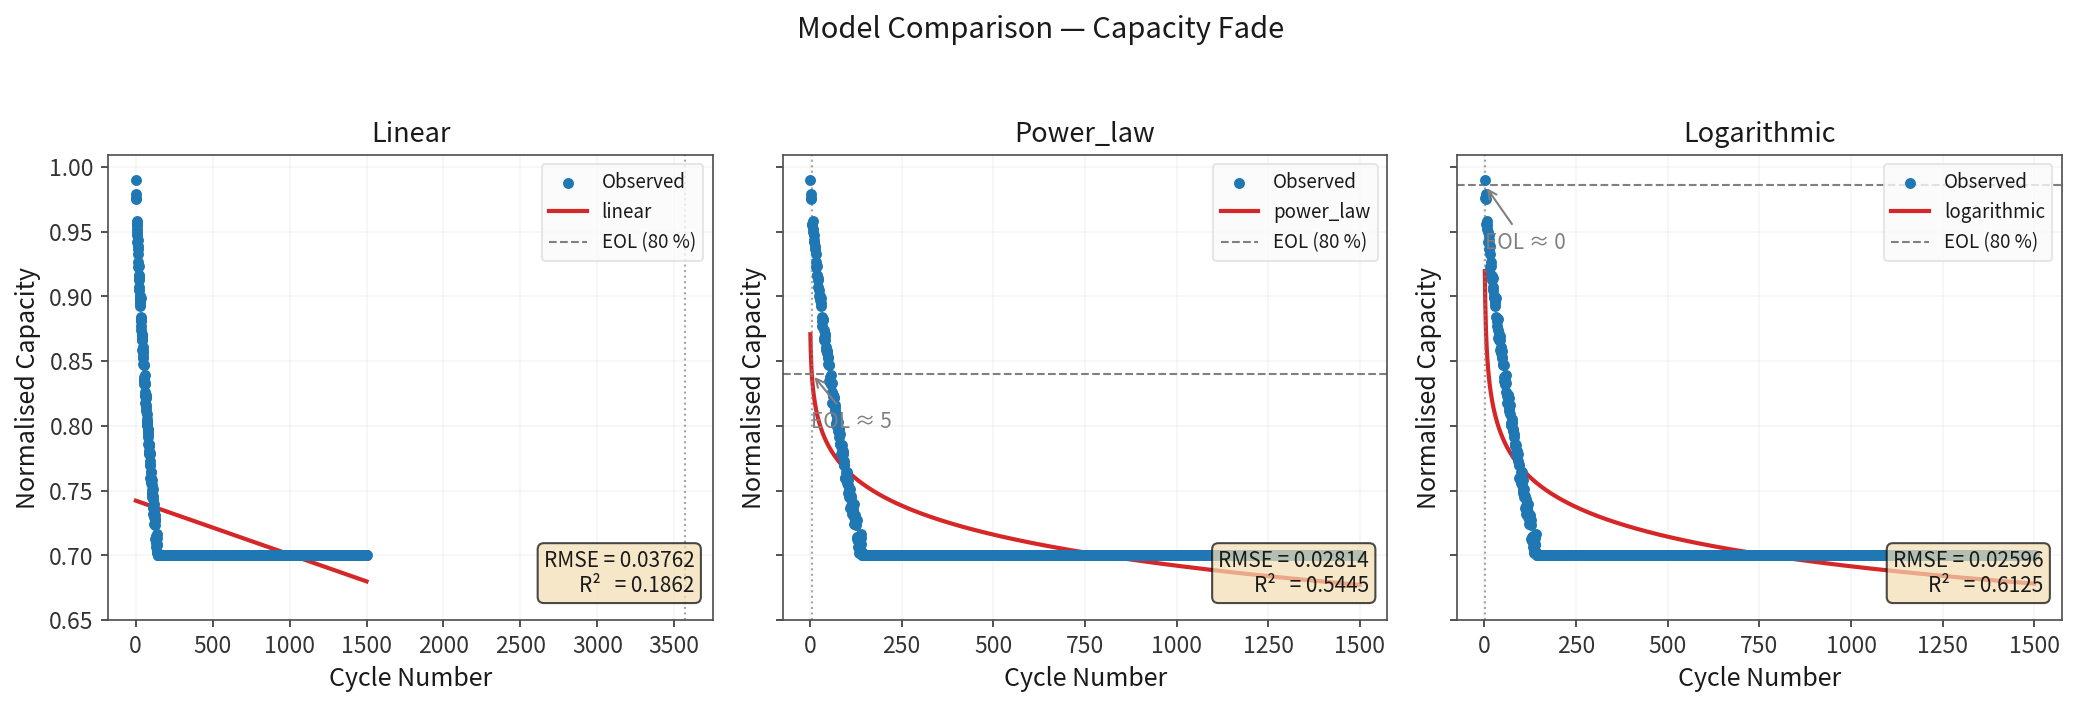
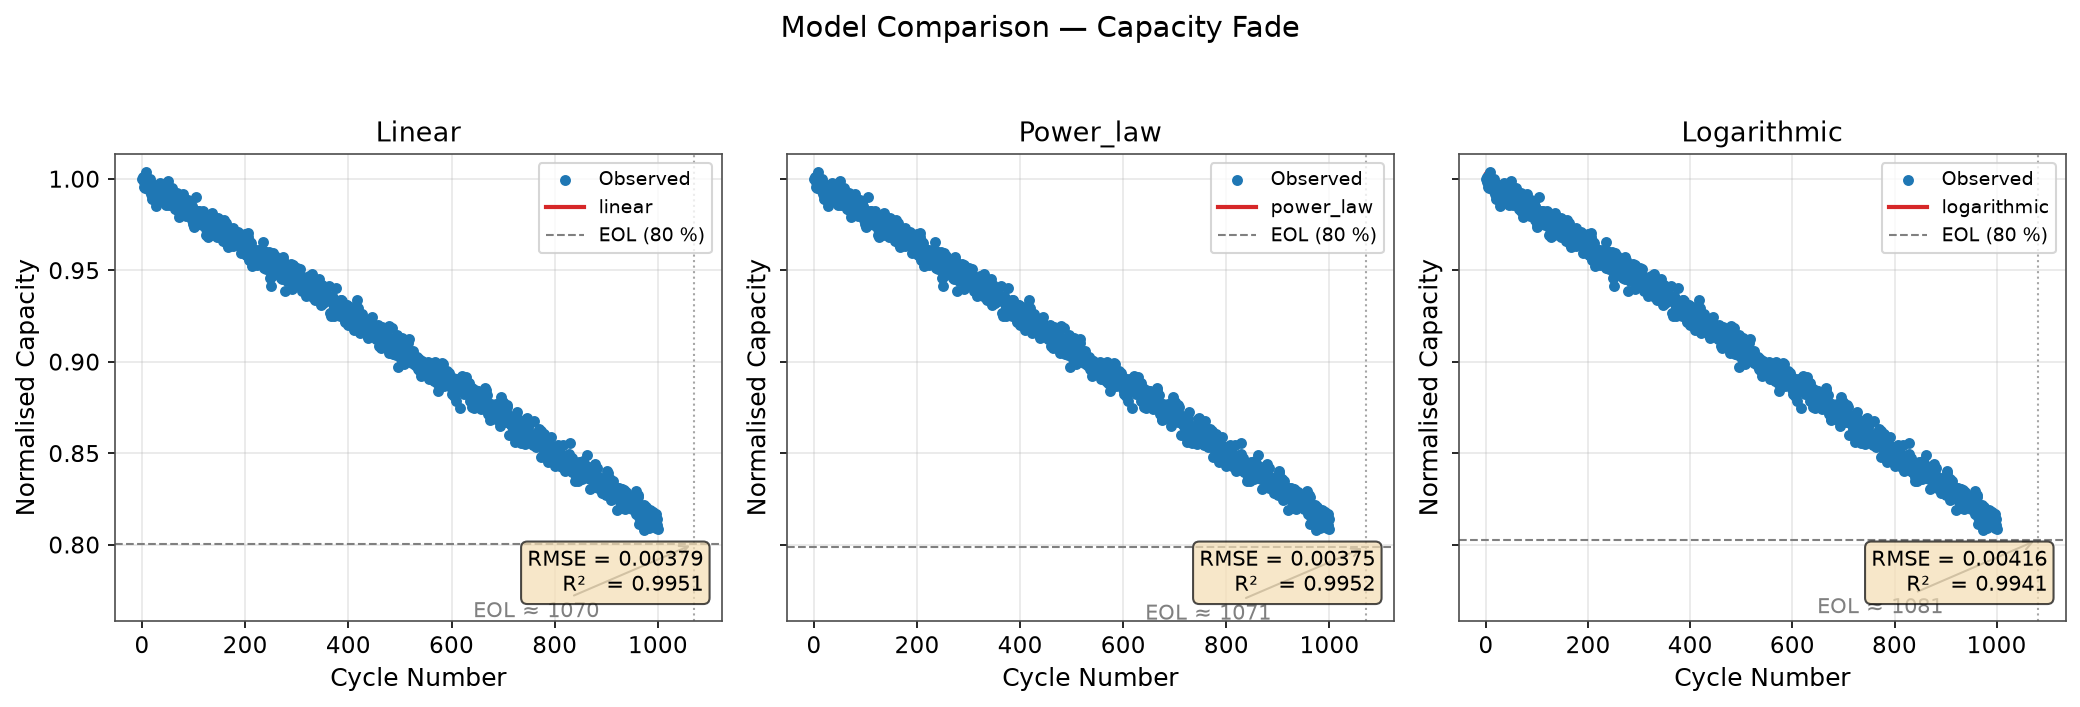
Harden data import and repair project Pages

diff --git a/bcla/datasets.py b/bcla/datasets.py
@@ -73,7 +73,7 @@ def synthetic_nmc(cycles: int = 1000,
 def load_cycle_data(csv_path: str | Path,
                     cycle_col: str = "cycle",
                     capacity_col: str = "capacity",
-                    sep: str = ",",
+                    sep: str | None = None,
                     normalize: bool = True
                     ) -> tuple[NDArray[np.float64], NDArray[np.float64]]:
     """
@@ -87,8 +87,9 @@ def load_cycle_data(csv_path: str | Path,
         Column name for cycle index.
     capacity_col : str
         Column name for normalized or raw capacity.
-    sep : str
-        CSV separator character.
+    sep : str | None
+        Separator character. If None, infer tab for `.tsv`/`.tab` files and
+        comma otherwise. The escaped value ``"\\t"`` is accepted as a tab.
     normalize : bool
         If True, divide capacities by the first capacity value.
 
@@ -107,8 +108,17 @@ def load_cycle_data(csv_path: str | Path,
     if not path.exists():
         raise FileNotFoundError(f"Could not find dataset file: {path}")
 
-    with path.open("r", newline="", encoding="utf-8") as f:
-        reader = csv.DictReader(f, delimiter=sep)
+    if sep is None:
+        delimiter = "\t" if path.suffix.lower() in {".tsv", ".tab"} else ","
+    else:
+        delimiter = "\t" if sep == r"\t" else sep
+        if len(delimiter) != 1:
+            raise ValueError(
+                "Separator must be one character or the escaped tab value '\\t'."
+            )
+
+    with path.open("r", newline="", encoding="utf-8-sig") as f:
+        reader = csv.DictReader(f, delimiter=delimiter)
         if reader.fieldnames is None:
             raise ValueError("Input file is missing a header row.")
         header = set(reader.fieldnames)
@@ -122,7 +132,7 @@ def load_cycle_data(csv_path: str | Path,
 
         cycles: list[float] = []
         capacity: list[float] = []
-        for row_i, row in enumerate(reader, start=1):
+        for row_i, row in enumerate(reader, start=2):
             try:
                 cycle = float(row[cycle_col])
                 q = float(row[capacity_col])
@@ -131,6 +141,12 @@ def load_cycle_data(csv_path: str | Path,
                     f"Could not parse row {row_i}: {cycle_col}={row.get(cycle_col)!r}, "
                     f"{capacity_col}={row.get(capacity_col)!r}"
                 ) from exc
+            if not np.isfinite(cycle) or not np.isfinite(q):
+                raise ValueError(
+                    f"Non-finite value in row {row_i}: "
+                    f"{cycle_col}={row.get(cycle_col)!r}, "
+                    f"{capacity_col}={row.get(capacity_col)!r}"
+                )
             cycles.append(cycle)
             capacity.append(q)
 

diff --git a/tests/test_datasets.py b/tests/test_datasets.py
@@ -26,7 +26,6 @@ def test_load_cycle_data_works_without_normalization(tmp_path: Path):
         csv_path,
         cycle_col="t",
         capacity_col="q",
-        sep="\t",
         normalize=False,
     )
 
@@ -41,3 +40,45 @@ def test_load_cycle_data_raises_for_missing_columns(tmp_path: Path):
     with pytest.raises(ValueError, match="Missing required columns"):
         load_cycle_data(csv_path)
 
+
+def test_load_cycle_data_reads_utf8_bom_header(tmp_path: Path):
+    csv_path = tmp_path / "excel.csv"
+    csv_path.write_bytes(
+        b"\xef\xbb\xbfcycle,capacity\n1,1.00\n2,0.98\n3,0.95\n"
+    )
+
+    cycles, capacity = load_cycle_data(csv_path)
+
+    assert np.allclose(cycles, np.array([1.0, 2.0, 3.0]))
+    assert np.allclose(capacity, np.array([1.0, 0.98, 0.95]))
+
+
+def test_load_cycle_data_accepts_escaped_tab_separator(tmp_path: Path):
+    csv_path = tmp_path / "cycles.txt"
+    csv_path.write_text("cycle\tcapacity\n1\t1.00\n2\t0.95\n")
+
+    cycles, capacity = load_cycle_data(csv_path, sep=r"\t")
+
+    assert np.allclose(cycles, np.array([1.0, 2.0]))
+    assert np.allclose(capacity, np.array([1.0, 0.95]))
+
+
+@pytest.mark.parametrize("bad_value", ["nan", "inf", "-inf"])
+def test_load_cycle_data_rejects_non_finite_values(
+    tmp_path: Path, bad_value: str
+):
+    csv_path = tmp_path / "bad.csv"
+    csv_path.write_text(
+        f"cycle,capacity\n1,1.00\n2,{bad_value}\n"
+    )
+
+    with pytest.raises(ValueError, match="Non-finite value in row 3"):
+        load_cycle_data(csv_path)
+
+
+def test_load_cycle_data_rejects_multi_character_separator(tmp_path: Path):
+    csv_path = tmp_path / "cycles.csv"
+    csv_path.write_text("cycle,capacity\n1,1.00\n")
+
+    with pytest.raises(ValueError, match="Separator must be one character"):
+        load_cycle_data(csv_path, sep="||")

diff --git a/bcla/__main__.py b/bcla/__main__.py
@@ -19,8 +19,11 @@ def main() -> None:
                         help="Column name for cycle data (default: cycle)")
     parser.add_argument("--capacity-col", default="capacity",
                         help="Column name for capacity data (default: capacity)")
-    parser.add_argument("--sep", default=",",
-                        help="CSV separator character (default: comma)")
+    parser.add_argument(
+        "--sep",
+        default=None,
+        help="Separator character; defaults to tab for .tsv/.tab and comma otherwise",
+    )
     parser.add_argument("--no-normalize", action="store_true",
                         help="Disable normalization when loading CSV capacity")
     args = parser.parse_args()

diff --git a/README.md b/README.md
@@ -45,6 +45,7 @@ You can also point the CLI at a CSV/TSV file:
 
 ```bash
 python -m bcla --csv data/cycles.csv --model all
+python -m bcla --csv data/cycles.tsv --model all
 ```
 
 Expected CSV/TSV columns (case sensitive):
@@ -52,10 +53,11 @@ Expected CSV/TSV columns (case sensitive):
 - `cycle`: cycle index (int/float)
 - `capacity`: measured capacity (absolute values; normalized internally by default)
 
-CLI column mapping is customizable:
+Files ending in `.tsv` or `.tab` use a tab delimiter automatically. CLI column
+mapping and separators are customizable; `\t` is accepted as an escaped tab:
 
 ```bash
-python -m bcla --csv data/raw.csv --cycle-col n --capacity-col q --sep ',' --no-normalize
+python -m bcla --csv data/raw.txt --cycle-col n --capacity-col q --sep '\t' --no-normalize
 ```
 
 ---
@@ -67,9 +69,10 @@ python -m bcla --csv data/raw.csv --cycle-col n --capacity-col q --sep ',' --no-
 | **Degradation models** | Linear, power‑law (LFP‑style), logarithmic — all with scipy curve_fit |
 | **Automatic best‑fit** | `bcla.core.best_model()` picks the lowest‑RMSE model |
 | **EOL projection** | `FitResult.eol_cycle()` estimates when capacity hits any threshold |
-| **Temperature acceleration** | Arrhenius‑based `acceleration_factor()` to compare operating temperatures |
+| **Temperature acceleration** | Arrhenius‑based `arrhenius_acceleration_factor()` to compare operating temperatures |
 | **Publication plots** | Matplotlib figures with ready‑to‑save PNG output at 150+ DPI |
 | **Built‑in datasets** | Synthetic LFP and NMC cycling data for instant demo |
+| **CSV/TSV import** | Load external cycle-capacity tables with normalization and validation |
 | **CLI + Python API** | Use from the terminal or import as a library |
 
 ---
@@ -80,7 +83,10 @@ python -m bcla --csv data/raw.csv --cycle-col n --capacity-col q --sep ',' --no-
 from bcla import core, viz, datasets
 
 # 1. Load data
-cycles, capacity = datasets.synthetic_lfp(cycles=1500)
+cycles, capacity = datasets.synthetic_nmc(cycles=1000)
+
+# Or load cycle-capacity data from a file
+# cycles, capacity = datasets.load_cycle_data("data/cycles.csv")
 
 # 2. Fit all models
 results = core.fit_all_models(cycles, capacity)
@@ -88,12 +94,9 @@ name, best = core.best_model(results)                # picks lowest RMSE
 
 # 3. Project end‑of‑life
 eol = best.eol_cycle(eol_fraction=0.8)
-print(f"Best model: {name} | EOL ≈ {eol:.0f} cycles")
-
-# 1b. Or load from a file
-cycles, capacity = datasets.load_cycle_data("data/cycles.csv")
-results = core.fit_all_models(cycles, capacity)
-name, best = core.best_model(results)
+print(f"Best model: {name}")
+print(f"Projected EOL: {eol:.0f} cycles" if eol is not None
+      else "EOL is outside the supported projection window")
 
 # 4. Plot
 fig = viz.model_comparison(results)
@@ -176,12 +179,13 @@ battery-cycle-life-analyzer/
 │   ├── __init__.py
 │   ├── core.py              # Degradation models & curve fitting
 │   ├── viz.py               # Matplotlib plotting helpers
-│   ├── datasets.py          # Synthetic data generators
+│   ├── datasets.py          # Synthetic data and CSV/TSV import
 │   └── __main__.py          # CLI entry point
 ├── notebooks/
 │   └── demo.ipynb           # Interactive Jupyter demo
 ├── tests/
-│   └── test_core.py         # Pytest unit tests
+│   ├── test_core.py         # Model and projection tests
+│   └── test_datasets.py     # Data-import tests
 ├── .github/workflows/
 │   └── tests.yml            # CI across supported Python versions
 ├── CONTRIBUTING.md

diff --git a/docs/index.md b/docs/index.md
@@ -1,0 +1,60 @@
+---
+layout: default
+title: Battery Cycle-Life Analyzer
+---
+
+# Battery Cycle-Life Analyzer
+
+Fit transparent empirical capacity-fade models, compare diagnostics, and
+project battery end of life inside an explicit extrapolation limit.
+
+[View the source and documentation](https://github.com/mohammadrezwankhan/battery-cycle-life-analyzer)
+|
+[Open the Colab notebook](https://colab.research.google.com/github/mohammadrezwankhan/battery-cycle-life-analyzer/blob/main/notebooks/demo.ipynb)
+
+![Linear, power-law, and logarithmic model comparison](model_comparison_preview.png)
+
+## What it provides
+
+- Linear, power-law, and logarithmic capacity-fade fits using SciPy.
+- RMSE and R^2 diagnostics for every fitted model.
+- A configurable EOL threshold relative to fitted initial capacity.
+- A bounded projection horizon that returns no estimate when EOL is outside
+  three times the observed cycle range.
+- Reproducible synthetic LFP and NMC demonstrations.
+- CSV/TSV cycle-capacity import with normalization and validation.
+- Publication-ready Matplotlib figures and a tested Python API.
+
+## Quick start
+
+```bash
+git clone https://github.com/mohammadrezwankhan/battery-cycle-life-analyzer.git
+cd battery-cycle-life-analyzer
+python -m pip install .
+python -m bcla --model all
+```
+
+## Model families
+
+For normalized capacity `Q(n)` at cycle `n`:
+
+- Linear: `Q(n) = Q0 - k n`
+- Power law: `Q(n) = Q0 - alpha n^beta`
+- Logarithmic: `Q(n) = Q0 - a ln(1 + b n)`
+
+The package reports fit diagnostics before selecting the lowest-RMSE model.
+An in-window fit is not treated as proof of a trustworthy long-range forecast,
+so unsupported threshold crossings return no estimate.
+
+## Scope and limitations
+
+This is an empirical research and educational baseline, not an
+electrochemical, pack-safety, or production BMS model. The bundled data are
+synthetic. Engineering conclusions require representative laboratory data and
+explicit consideration of chemistry, temperature, protocol, and uncertainty.
+
+## Project links
+
+- [README and equations](https://github.com/mohammadrezwankhan/battery-cycle-life-analyzer#readme)
+- [Contributing guide](https://github.com/mohammadrezwankhan/battery-cycle-life-analyzer/blob/main/CONTRIBUTING.md)
+- [MIT license](https://github.com/mohammadrezwankhan/battery-cycle-life-analyzer/blob/main/LICENSE)
